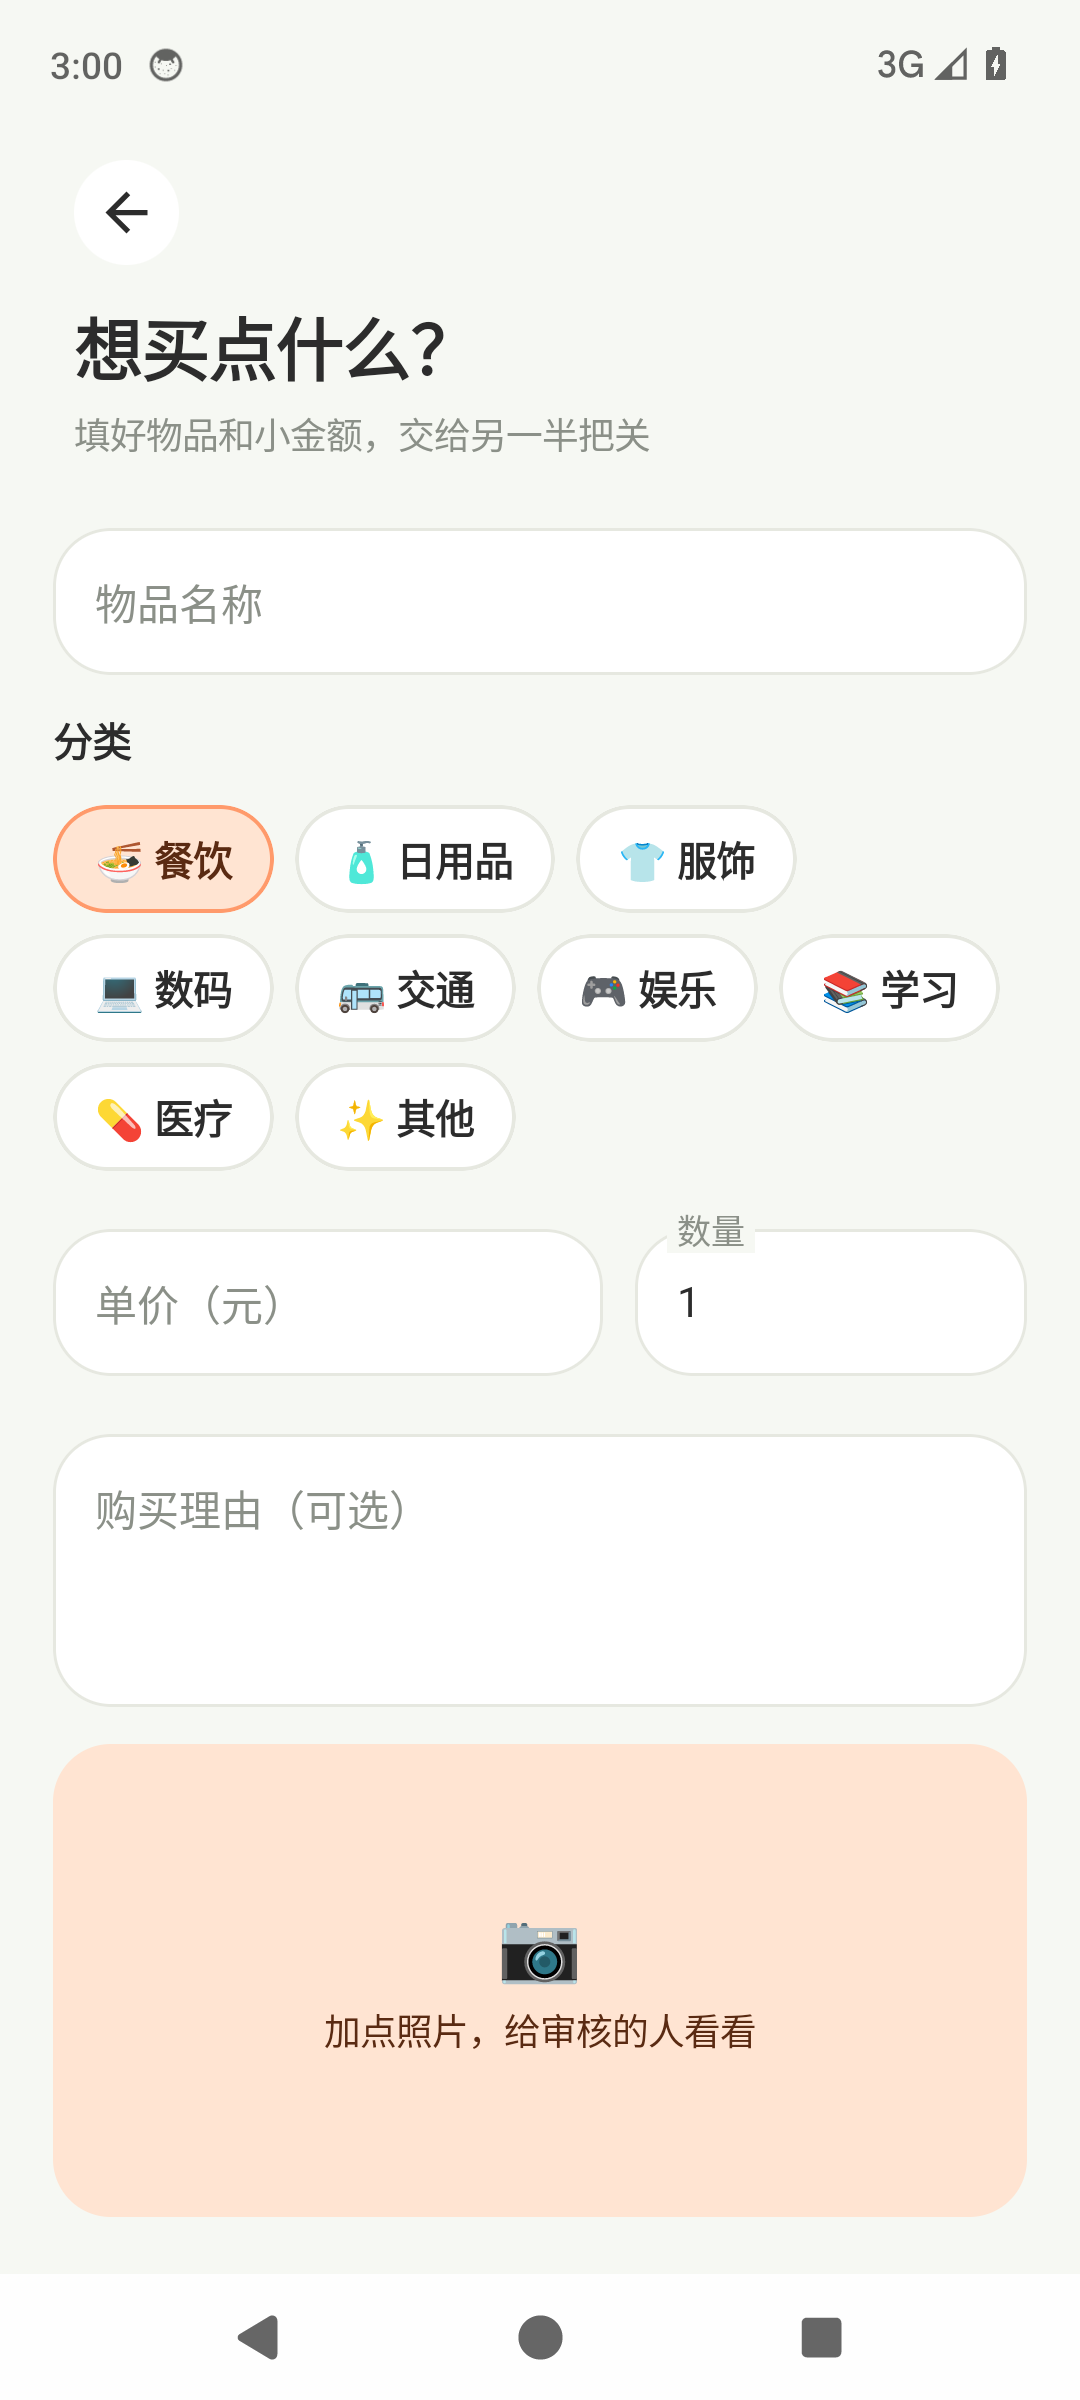
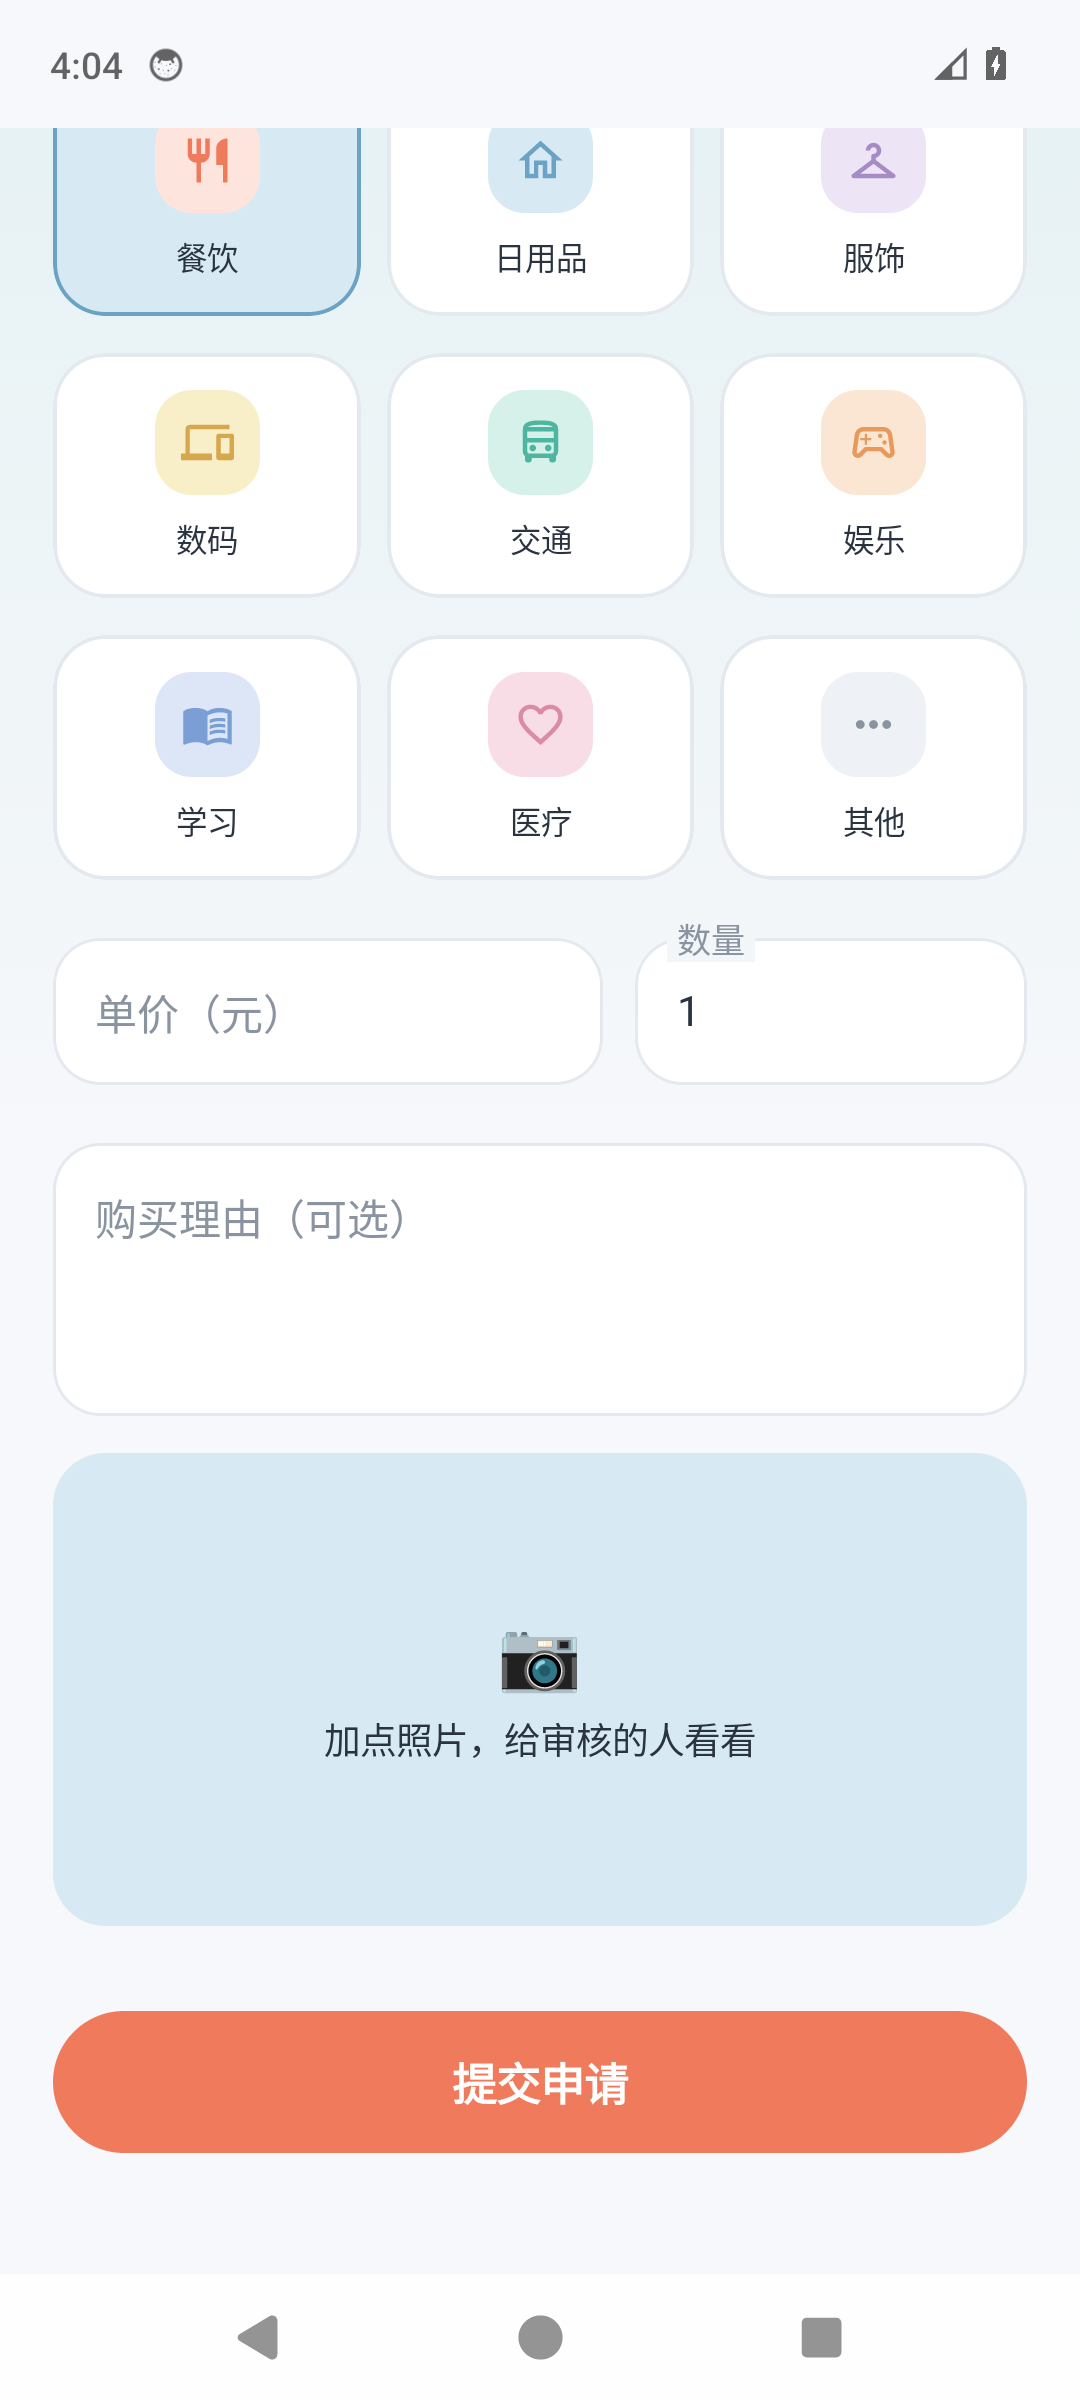
README 换成 Q 版实机截图
按清爽 Q 版界面重拍申请列表、新建、照片、审核、账本、我们页和系统通知，并在 README 里补上小账本。

diff --git a/README.md b/README.md
@@ -53,9 +53,9 @@ cd backend && docker compose up --build
 | --- | --- | --- |
 | ![审核](docs/screenshots/request_detail_approver.png) | ![部分通过](docs/screenshots/request_detail_partial.png) | ![我们俩](docs/screenshots/profile_partner.png) |
 
-| 审核人收到新申请通知 | 申请人收到审核结果 |
-| --- | --- |
-| ![新申请通知](docs/screenshots/notification_new_request.png) | ![审核结果通知](docs/screenshots/notification_review_result.png) |
+| 小账本 | 审核人收到新申请通知 | 申请人收到审核结果 |
+| --- | --- | --- |
+| ![小账本](docs/screenshots/expenses_summary.png) | ![新申请通知](docs/screenshots/notification_new_request.png) | ![审核结果通知](docs/screenshots/notification_review_result.png) |
 
 ## 技术栈
 
